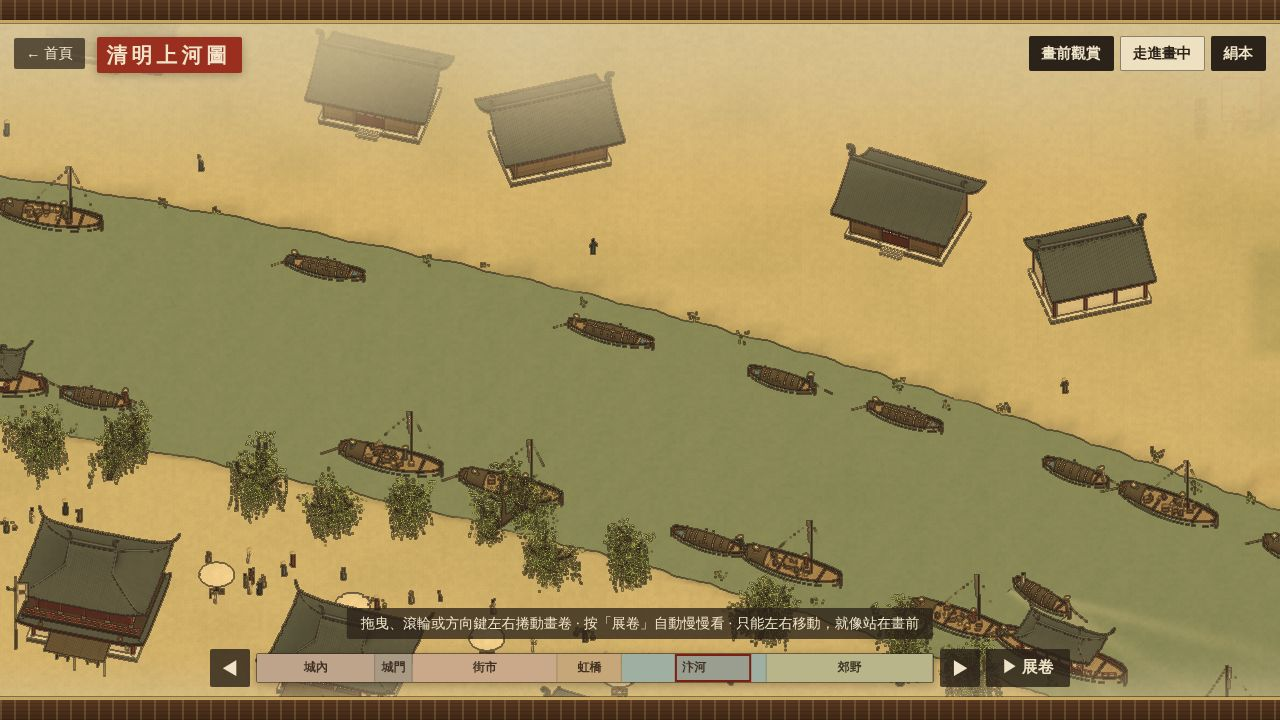
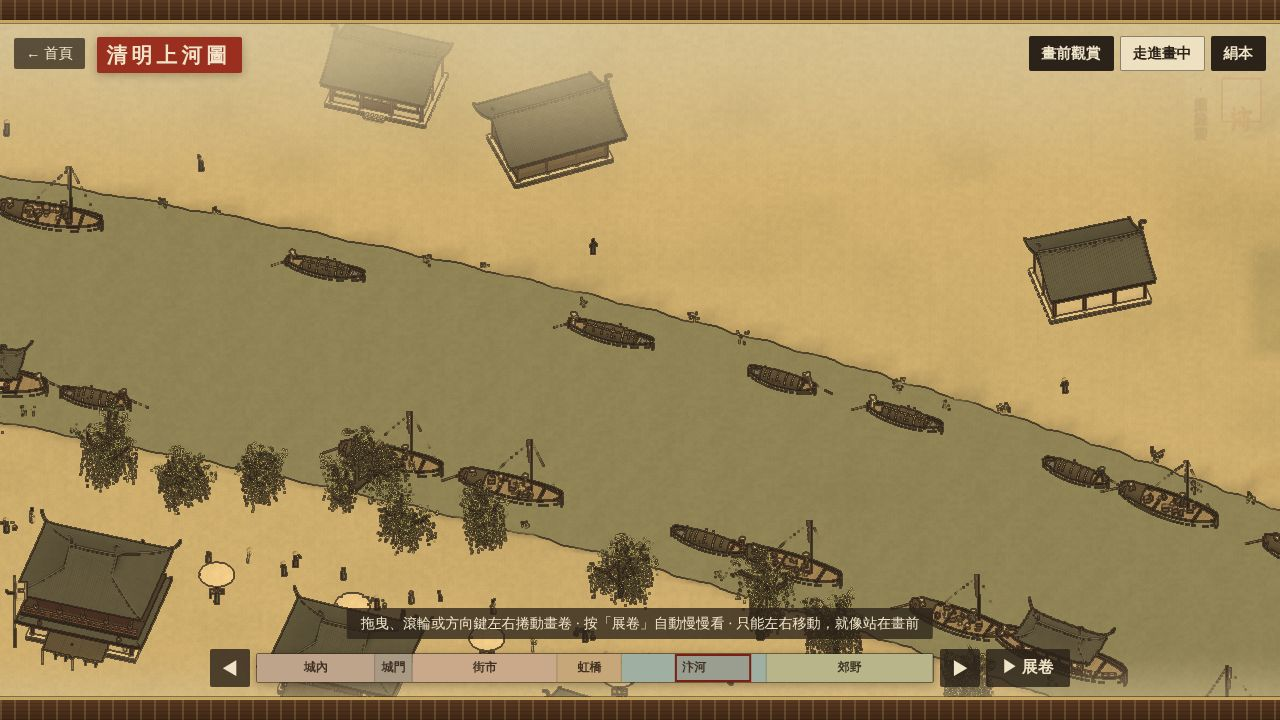
清明上河圖：照原畫調整建築角度、屋頂與色調 (#23)
* 新增溪山行旅：古典山水市集畫卷 3D 場景

Three.js 程序化建模：虹橋、朱欄小橋、砌石岸線與碼頭、烏篷船／畫舫／
貨船、商鋪與高台重簷大殿、白牆院落、門樓、觀景亭、垂柳松柏、行人。
三種入口：環繞全景、步行探索、搭船遊河；含輿圖、實機測試與截圖。

Claude-Session: https://claude.ai/code/session_01A8bzoshNc2AoFtgcasqWGZ

* 新增清明上河圖：可左右捲動的活畫卷與 3D 街道

- 畫前觀賞：固定俯角正交相機，只能左右捲動，加絹本設色、墨線、絹紋後製
- 走進畫中：第一人稱走上虹橋、穿過城門
- 六百多人、驢隊、轎子、駱駝、車、縴夫、放桅過橋的大船都會動
- 首頁新增 TOPIC_09

Claude-Session: https://claude.ai/code/session_01A8bzoshNc2AoFtgcasqWGZ

* 清明上河圖：畫前模式更豐富

- 人數加倍到約 1350 人，三五成群聊天，橋上、街上更擠
- 樹木約三倍（郊野老樹林、河岸柳樹），停泊船更多
- 店門前加蘆蓆遮陽棚、桌凳貨物，酒樓腳店掛酒旗，郊野茅屋加籬笆草垛
- 攤傘更密；靠觀者一側的街屋改矮，看得到街上
- 畫前模式取消陰影（原畫沒有陰影），人物稍大

Claude-Session: https://claude.ai/code/session_01A8bzoshNc2AoFtgcasqWGZ

* 清明上河圖：照原畫調整建築角度、屋頂與色調

- 對照原畫（Wikimedia 公有領域圖檔）：街道改成之字形斜走，房子斜斜排列、看得到正面和側面
- 屋頂改成民間樸素樣式（翹角很小、沒有脊獸），懸山／歇山混搭
- 城內十字街也斜走；郊野茅屋斜擺
- 畫面色調改成以墨色、赭黃為主，降低飽和度、墨線加深
- xishan buildBuilding 新增 plain 選項（不影響溪山行旅）

Claude-Session: https://claude.ai/code/session_01A8bzoshNc2AoFtgcasqWGZ

---------

diff --git a/xishan/js/build.js b/xishan/js/build.js
@@ -136,6 +136,8 @@ function signs(group, P, list) {
 
 /* ---------------- 各種房子 ---------------- */
 export function buildBuilding(b, group, B, ground) {
+  // B.plain：民間樸素屋頂（翹角很小、沒有脊獸），給清明上河圖用
+  const RF = (o) => (B.plain ? { ...o, lift: Math.min(o.lift ?? 0.9, 0.15), caps: false, ridgeH: 0.3, type: o.type === "xieshan" ? (B.roofType || "xieshan") : o.type, H: o.H * 0.82 } : o);
   const P = M([B.x, ground, B.z], [0, B.rot, 0]);
   const { w, d } = B;
   const r = rng(B.x * 13 + B.z * 7);
@@ -151,12 +153,12 @@ export function buildBuilding(b, group, B, ground) {
     if (B.type === "two") {
       // 樓板、平座欄杆、腰簷
       b.add("woodDark", box(w + 1.6, 0.3, d + 1.6), M([0, roofY + 0.1, 0]), P);
-      roof(b, { ex: w / 2 + 1.3, ez: d / 2 + 1.3, H: 1.6, type: "pent", ring: 0.42, lift: 0.5, caps: false }, P.clone().multiply(M([0, roofY - 0.85, 0])));
+      roof(b, RF({ ex: w / 2 + 1.3, ez: d / 2 + 1.3, H: 1.6, type: "pent", ring: 0.42, lift: 0.5, caps: false }), P.clone().multiply(M([0, roofY - 0.85, 0])));
       railing(b, P, [-w / 2 - 0.6, d / 2 + 0.65], [w / 2 + 0.6, d / 2 + 0.65], roofY + 0.25, 0.85, "red", 1.4);
       const F2 = frame(b, P, { w: w - 0.6, d: d - 0.6, colH: 2.9, y0: roofY + 0.25, nx, front: "door", side: "window", backSide: "window", r: 0.16 });
       roofY = F2.top;
     }
-    roof(b, { ex: w / 2 + 1.4, ez: d / 2 + 1.5, H: d * 0.36 + 0.6, type: B.type === "ware" ? "gable" : "xieshan", lift: B.type === "ware" ? 0.3 : 0.8 }, P.clone().multiply(M([0, roofY, 0])));
+    roof(b, RF({ ex: w / 2 + 1.4, ez: d / 2 + 1.5, H: d * 0.36 + 0.6, type: B.type === "ware" ? "gable" : "xieshan", lift: B.type === "ware" ? 0.3 : 0.8 }), P.clone().multiply(M([0, roofY, 0])));
     const sg = [];
     if (B.sign) {
       sg.push({ text: B.sign + (B.type === "two" ? "樓" : "鋪"), p: [0, F.top - 0.05, d / 2 + 0.2], w: 2.4, h: 0.6, vertical: false, bg: "#1f3a33", fg: "#e9d9a6" });
@@ -182,12 +184,12 @@ export function buildBuilding(b, group, B, ground) {
     const front = Array.from({ length: nx }, (_, i) => (i === Math.floor(nx / 2) ? "door" : "window"));
     const F = frame(b, P, { w, d, colH: B.type === "yamen" ? 4.4 : 3.4, y0: ph, nx, front, side: "wall", backSide: "wall", r: 0.18, brackets: B.type === "yamen" });
     if (B.type === "yamen") {
-      roof(b, { ex: w / 2 + 1.6, ez: d / 2 + 1.7, H: d * 0.38 + 0.8, type: "xieshan", lift: 0.9 }, P.clone().multiply(M([0, F.top, 0])));
+      roof(b, RF({ ex: w / 2 + 1.6, ez: d / 2 + 1.7, H: d * 0.38 + 0.8, type: "xieshan", lift: 0.9 }), P.clone().multiply(M([0, F.top, 0])));
       signs(group, P, [{ text: "明鏡高懸", p: [0, F.top - 0.1, d / 2 + 0.25], w: 3.2, h: 0.7, vertical: false, bg: "#1b2b4a", fg: "#e2c46a" }]);
       for (const s of [-1, 1]) b.add("stoneLight", lathe([[0, 0], [0.5, 0], [0.5, 0.5], [0.35, 0.6], [0.4, 1.2], [0.25, 1.5], [0, 1.6]], 8), M([s * 2.6, 0, d / 2 + 3.2]), P);
     } else {
       // 硬山：兩端山牆
-      roof(b, { ex: w / 2 + 0.5, ez: d / 2 + 1.2, H: d * 0.4, type: "gable", lift: 0.2 }, P.clone().multiply(M([0, F.top, 0])));
+      roof(b, RF({ ex: w / 2 + 0.5, ez: d / 2 + 1.2, H: d * 0.4, type: "gable", lift: 0.2 }), P.clone().multiply(M([0, F.top, 0])));
       for (const s of [-1, 1]) {
         const sp = surface(1, 8, (u, v) => { const z = -d / 2 - 1.2 + (d + 2.4) * u; const hh = (d * 0.4) * Math.pow(Math.max(0, (d / 2 + 1.2 - Math.abs(z)) / (d / 2 + 1.2)), 1.55); return [s * (w / 2 + 0.25), F.top + hh * v, z]; });
         b.add("plaster", sp, null, P);
@@ -197,7 +199,7 @@ export function buildBuilding(b, group, B, ground) {
   }
   if (B.type === "shed") {
     for (const sx of [-1, 1]) for (const sz of [-1, 1]) b.add("bamboo", rod([sx * w / 2, 0, sz * d / 2], [sx * w / 2, 2.8, sz * d / 2], 0.08, 0.07), null, P);
-    roof(b, { ex: w / 2 + 0.8, ez: d / 2 + 0.8, H: 1.4, type: "gable", lift: 0.1, caps: false }, P.clone().multiply(M([0, 2.8, 0])));
+    roof(b, RF({ ex: w / 2 + 0.8, ez: d / 2 + 0.8, H: 1.4, type: "gable", lift: 0.1, caps: false }), P.clone().multiply(M([0, 2.8, 0])));
     // 長凳與茶桌
     for (const z of [-1.2, 1.2]) b.add("woodGrain", box(w * 0.7, 0.08, 0.4), M([0, 0.45, z]), P);
     b.add("woodGrain", box(w * 0.5, 0.06, 1.0), M([0, 0.75, 0]), P);
@@ -209,13 +211,13 @@ export function buildBuilding(b, group, B, ground) {
     for (const sx of [-1, 1]) for (const sz of [-1, 1]) column(b, P, sx * w / 2, sz * d / 2, 0.6, 3.2, 0.17);
     for (const [a, c] of [[[-w / 2, d / 2], [-1.1, d / 2]], [[1.1, d / 2], [w / 2, d / 2]], [[-w / 2, -d / 2], [w / 2, -d / 2]], [[-w / 2, -d / 2], [-w / 2, d / 2]], [[w / 2, -d / 2], [w / 2, d / 2]]]) railing(b, P, a, c, 0.6, 0.6, "red", 1.2, true);
     b.add("green", box(w + 0.3, 0.35, 0.25), M([0, 4.0, d / 2]), P); b.add("green", box(w + 0.3, 0.35, 0.25), M([0, 4.0, -d / 2]), P);
-    roof(b, { ex: w / 2 + 1.3, ez: d / 2 + 1.3, H: 2.6, type: "xieshan", lift: 0.9 }, P.clone().multiply(M([0, 4.25, 0])));
+    roof(b, RF({ ex: w / 2 + 1.3, ez: d / 2 + 1.3, H: 2.6, type: "xieshan", lift: 0.9 }), P.clone().multiply(M([0, 4.25, 0])));
     return;
   }
   if (B.type === "side") {
     platform(b, P, w + 1, d + 1, 0.8, { stepsW: 3 });
     const F = frame(b, P, { w, d, colH: 4.2, y0: 0.8, nx: 3, front: ["window", "door", "window"], side: "wall", backSide: "wall", r: 0.22, brackets: true });
-    roof(b, { ex: w / 2 + 1.7, ez: d / 2 + 1.8, H: 3.4, type: "xieshan", lift: 1.0 }, P.clone().multiply(M([0, F.top, 0])));
+    roof(b, RF({ ex: w / 2 + 1.7, ez: d / 2 + 1.8, H: 3.4, type: "xieshan", lift: 1.0 }), P.clone().multiply(M([0, F.top, 0])));
     return;
   }
   if (B.type === "gate") { gateTower(b, group, P, B); return; }
@@ -244,10 +246,10 @@ function gateTower(b, group, P, B) {
   b.add("green", box(w + 0.6, 0.5, 0.4), M([0, top, -d / 2 + 0.4]), P);
   for (let x = -w / 2; x <= w / 2 + 0.01; x += w / 6) { bracket(b, P, x, d / 2 - 0.4, top + 0.25, 1.1, 0); bracket(b, P, x, -d / 2 + 0.4, top + 0.25, 1.1, 0); }
   // 重簷
-  roof(b, { ex: w / 2 + 2.0, ez: d / 2 + 2.0, H: 2.2, type: "pent", ring: 0.5, lift: 1.0 }, P.clone().multiply(M([0, top + 1.0, 0])));
+  roof(b, RF({ ex: w / 2 + 2.0, ez: d / 2 + 2.0, H: 2.2, type: "pent", ring: 0.5, lift: 1.0 }), P.clone().multiply(M([0, top + 1.0, 0])));
   b.add("plaster", box(w - 1.6, 1.8, d - 1.4), M([0, top + 2.4, 0]), P);
   for (const x of [-w / 2 + 0.8, -w * 0.15, w * 0.15, w / 2 - 0.8]) for (const z of [-d / 2 + 0.7, d / 2 - 0.7]) b.add("red", cyl(0.2, 0.2, 2.0, 8), M([x, top + 2.4, z]), P);
-  roof(b, { ex: w / 2 + 1.4, ez: d / 2 + 1.6, H: 3.2, type: "xieshan", lift: 1.2 }, P.clone().multiply(M([0, top + 3.4, 0])));
+  roof(b, RF({ ex: w / 2 + 1.4, ez: d / 2 + 1.6, H: 3.2, type: "xieshan", lift: 1.2 }), P.clone().multiply(M([0, top + 3.4, 0])));
   signs(group, P, [
     { text: "溪山", p: [0, top + 2.4, d / 2 - 0.62], w: 2.6, h: 1.1, vertical: false, bg: "#18304a", fg: "#e2c46a" },
     { text: "溪山", p: [0, top + 2.4, -d / 2 + 0.62], w: 2.6, h: 1.1, vertical: false, bg: "#18304a", fg: "#e2c46a", r: [0, Math.PI, 0] },
@@ -286,12 +288,12 @@ function greatHall(b, group, P, B) {
   b.add("green", box(0.3, 0.4, d + 5.6), M([w / 2 + 2.6, base + colH - 0.4, 0]), P);
   // 下簷（重簷的下層）
   const y1 = F.top - 0.3;
-  roof(b, { ex: w / 2 + 4.6, ez: d / 2 + 4.6, H: 4.2, type: "pent", ring: 0.5, lift: 1.4, res: 0.9 }, P.clone().multiply(M([0, y1, 0])));
+  roof(b, RF({ ex: w / 2 + 4.6, ez: d / 2 + 4.6, H: 4.2, type: "pent", ring: 0.5, lift: 1.4, res: 0.9 }), P.clone().multiply(M([0, y1, 0])));
   // 上層身（承托上簷）
   const w2 = w - 6, d2 = d - 6, yb = y1 + 1.9;
   b.add("woodDark", box(w2 + 0.4, 0.3, d2 + 0.4), M([0, yb, 0]), P);
   const F2 = frame(b, P, { w: w2, d: d2, colH: 3.2, y0: yb, nx: 7, nz: 3, front: "window", side: "window", backSide: "window", r: 0.3, brackets: true, inset: 0 });
-  roof(b, { ex: w2 / 2 + 4.2, ez: d2 / 2 + 4.2, H: 7.2, type: "xieshan", lift: 1.6, res: 0.9, ridgeH: 0.9 }, P.clone().multiply(M([0, F2.top - 0.2, 0])));
+  roof(b, RF({ ex: w2 / 2 + 4.2, ez: d2 / 2 + 4.2, H: 7.2, type: "xieshan", lift: 1.6, res: 0.9, ridgeH: 0.9 }), P.clone().multiply(M([0, F2.top - 0.2, 0])));
   signs(group, P, [{ text: "溪山殿", p: [0, F2.top - 1.2, d2 / 2 + 0.3], w: 4.2, h: 1.3, vertical: false, bg: "#14294a", fg: "#e6c25f" }]);
 }
 

diff --git a/qingming/js/plan.js b/qingming/js/plan.js
@@ -75,9 +75,9 @@ export const roads = [
   { id: "near", name: "汴河南岸", w: 6, kind: "earth", pts: spline(bank(false, 30, bs - 22, 36, 10).concat([[bridgeS.x + bridge.ax * 6, bridgeS.z + bridge.az * 6]]), 3) },
   { id: "towpath", name: "縴道", w: 3.2, kind: "earth", pts: spline(bank(true, 40, bs - 30, 24, 10), 3) },
   { id: "bridge", name: "虹橋", w: 7, kind: "none", pts: [[bridgeN.x - bridge.ax * 8, bridgeN.z - bridge.az * 8], [bridgeS.x + bridge.ax * 6, bridgeS.z + bridge.az * 6]] },
-  { id: "street", name: "城外大街", w: 8, kind: "stone", pts: spline([[bridgeS.x + bridge.ax * 6, bridgeS.z + bridge.az * 6], [-40, 32], [-110, 22], [-200, 10], [-300, 4], [gate.x + gate.dx, 4], [gate.x - gate.dx, 4], [-460, 4], [-620, 4]], 3) },
+  { id: "street", name: "城外大街", w: 8, kind: "stone", pts: spline([[bridgeS.x + bridge.ax * 6, bridgeS.z + bridge.az * 6], [-40, 36], [-82, 60], [-132, 32], [-178, 6], [-226, 30], [-272, 10], [-305, 4], [gate.x + gate.dx, 4], [gate.x - gate.dx, 4], [-425, 4], [-458, 22], [-490, 4], [-528, -18], [-572, 6], [-620, -10]], 3) },
   { id: "far", name: "北岸小路", w: 4, kind: "earth", pts: spline([[bridgeN.x - bridge.ax * 8, bridgeN.z - bridge.az * 8], [-30, -60], [-90, -80], [-120, -130]], 3) },
-  { id: "cross", name: "城內十字街", w: 7, kind: "stone", pts: spline([[-490, 90], [-490, 4], [-490, -110]], 3) },
+  { id: "cross", name: "城內十字街", w: 7, kind: "stone", pts: spline([[-452, 96], [-472, 50], [-490, 4], [-512, -50], [-540, -112]], 3) },
   { id: "bankst", name: "河街", w: 4, kind: "stone", pts: spline(bank(false, bs + 12, bs + 150, 26, 8), 3) },
 ];
 export const roadLines = roads.map((r) => ({ ...r, line: new Line(r.pts, 20) }));
@@ -90,9 +90,11 @@ export const plaques = [];          // 自訂招牌 {text, x, z, y, rot, w, h, v
 export const caiLou = [];           // 彩樓歡門
 (() => {
   const r = rng(23);
-  const put = (b) => buildings.push({ w: 11, d: 8, rot: 0, ...b });
+  // 畫裡的房子都是民間樸素的屋頂，斜斜地排著；稍微不整齊
+  const put = (b) => buildings.push({ w: 11, d: 8, rot: 0, plain: b.type !== "yamen", roofType: r() < 0.5 ? "gable" : "xieshan", ...b, rot: (b.rot || 0) + (b.type === "yamen" ? 0 : (r() - 0.5) * 0.16) });
+  const hits = (x, z, w, d) => buildings.some((b) => Math.hypot(b.x - x, b.z - z) < (Math.max(b.w, b.d) + Math.max(w, d)) * 0.5 + 0.5);
   // 郊野茅屋
-  for (const [x, z, rot] of [[575, -10, 0.2], [540, -55, -0.1], [505, -20, 0.35], [408, -18, 0.1], [600, 80, Math.PI]]) put({ type: "house", thatch: true, x, z, rot, w: 10, d: 7, name: "農舍" });
+  for (const [x, z, rot] of [[575, -10, 0.6], [540, -55, -0.5], [505, -20, 0.75], [408, -18, 0.55], [600, 80, Math.PI - 0.6]]) put({ type: "house", thatch: true, x, z, rot, w: 10, d: 7, name: "農舍" });
   put({ type: "shed", thatch: true, x: 352, z: 64, rot: Math.PI * 0.85, w: 9, d: 6, name: "路邊茶棚" });
   // 汴河南岸：面向河的酒樓茶肆
   const near = road("near").line;
@@ -125,6 +127,7 @@ export const caiLou = [];           // 彩樓歡門
       const off = side * (front ? 11.5 : 12);
       const x = p.x + p.nx * off, z = p.z + p.nz * off;
       const t = front ? (r() < 0.6 ? "shop" : "shed") : r() < 0.45 ? "two" : "shop";
+      if (hits(x, z, front ? 10 : 12, front ? 6.5 : 9)) continue;
       put({ type: t, x, z, rot: Math.atan2(-p.nx * side, -p.nz * side), w: front ? 10 + Math.round(r() * 2) : 12 + Math.round(r() * 3), d: front ? 6.5 : 9, name: p.x < gate.x ? ["醫鋪", "茶坊", "酒肆", "香藥鋪", "絹鋪"][k % 5] : names[k % names.length] });
       k++;
     }
@@ -136,7 +139,7 @@ export const caiLou = [];           // 彩樓歡門
   const zt = buildings.find((b) => b.x < -500 && b.z > 0);
   if (zt) { zt.name = "趙太丞家"; }
   // 城內十字街兩側
-  for (const z of [-60, -90, 50, 80]) for (const side of [-1, 1]) put({ type: r() < 0.5 ? "two" : "shop", x: -490 + side * 12, z, rot: side > 0 ? -Math.PI / 2 : Math.PI / 2, name: ["茶坊", "說書場", "綵帛鋪", "酒肆"][Math.floor(r() * 4)] });
+  { const L = road("cross").line; for (const s0 of [22, 44, 140, 162, 184]) for (const side of [-1, 1]) { const p = L.at(s0), x = p.x + p.nx * side * 12, z = p.z + p.nz * side * 12; if (!hits(x, z, 11, 8)) put({ type: r() < 0.5 ? "two" : "shop", x, z, rot: Math.atan2(-p.nx * side, -p.nz * side), name: ["茶坊", "說書場", "綵帛鋪", "酒肆"][Math.floor(r() * 4)] }); } }
   // 城內寺院門
   put({ type: "yamen", x: -560, z: -50, rot: 0, w: 16, d: 10, name: "寺院" });
   // ---- 補滿畫面：北岸橋頭街、街後第二排、郊野村落、城內巷弄 ----
@@ -170,8 +173,8 @@ export const caiLou = [];           // 彩樓歡門
   along("towpath", 20, 390, 30, 16, { sides: [sideSign > 0 ? 1 : -1, sideSign > 0 ? -1 : 1], type: () => (r() < 0.6 ? "ware" : "house"), name: (t) => (t === "ware" ? "倉房" : "民居"), skip: 0.45, jit: 4 });
   along("country", 10, 360, 34, 18, { type: () => (r() < 0.75 ? "house" : "shed"), name: () => "農舍", thatch: true, skip: 0.45, jit: 10, w: () => 8 + r() * 3, d: () => 6 + r() * 2 });
   along("cross", 10, 200, 14, 24, { type: () => (r() < 0.5 ? "two" : "house"), name: () => "民居", skip: 0.15 });
-  for (let i = 0; i < 18; i++) { const x = -610 + r() * 230, z = -140 + r() * 250, w = 10 + r() * 4; if (free(x, z, w, w)) put({ type: r() < 0.4 ? "two" : "house", x, z, rot: Math.round(r() * 3) * Math.PI / 2, w, d: 8, name: "民居" }); }
-  for (let i = 0; i < 18; i++) { const x = 360 + r() * 270, z = -120 + r() * 230; if (free(x, z, 10, 10)) put({ type: "house", thatch: true, x, z, rot: (r() - 0.5) * 0.8, w: 8 + r() * 2, d: 6, name: "農舍" }); }
+  for (let i = 0; i < 18; i++) { const x = -610 + r() * 230, z = -140 + r() * 250, w = 10 + r() * 4; if (free(x, z, w, w)) put({ type: r() < 0.4 ? "two" : "house", x, z, rot: (r() < 0.5 ? 1 : -1) * (0.45 + r() * 0.35) + (r() < 0.5 ? Math.PI : 0), w, d: 8, name: "民居" }); }
+  for (let i = 0; i < 18; i++) { const x = 360 + r() * 270, z = -120 + r() * 230; if (free(x, z, 10, 10)) put({ type: "house", thatch: true, x, z, rot: (r() < 0.5 ? 1 : -1) * (0.4 + r() * 0.5), w: 8 + r() * 2, d: 6, name: "農舍" }); }
 })();
 
 for (const b of buildings) if (/酒|腳店|孫羊|客店/.test(b.name) && (b.type === "two" || b.type === "shop")) b.flag = true;

diff --git a/qingming/js/main.js b/qingming/js/main.js
@@ -92,7 +92,7 @@ const PaintShader = {
       float edge = smoothstep(0.12, 0.5, length(vec2(gx, gy)));
       // 設色：降飽和、偏赭黃，畫在絹上（相乘）
       float l = lum(c);
-      vec3 tone = mix(vec3(l), c, 0.62) * vec3(1.02, 0.96, 0.84);
+      vec3 tone = mix(vec3(l), c, 0.3) * vec3(1.03, 0.95, 0.80);
       tone = pow(tone, vec3(0.9));
       vec3 col = uSilk * mix(vec3(1.0), tone * 1.32, 0.86);
       // 絹紋、舊漬（跟著畫卷一起捲動）
@@ -102,7 +102,7 @@ const PaintShader = {
       float stain = noise(sp * 0.003 + 3.1) * 0.6 + noise(sp * 0.009) * 0.4;
       col *= 0.95 + grain * 0.07 + weave * 0.012;
       col *= mix(1.0, 0.94, smoothstep(0.62, 0.9, stain));
-      col = mix(col, vec3(0.17, 0.13, 0.10), edge * 0.6);
+      col = mix(col, vec3(0.16, 0.12, 0.09), edge * 0.72);
       // 上方淡入雲霧，像畫卷的留白
       float top = smoothstep(0.70, 0.98, vUv.y) * uMist;
       float bot = smoothstep(0.10, 0.0, vUv.y) * uMist * 0.6;
